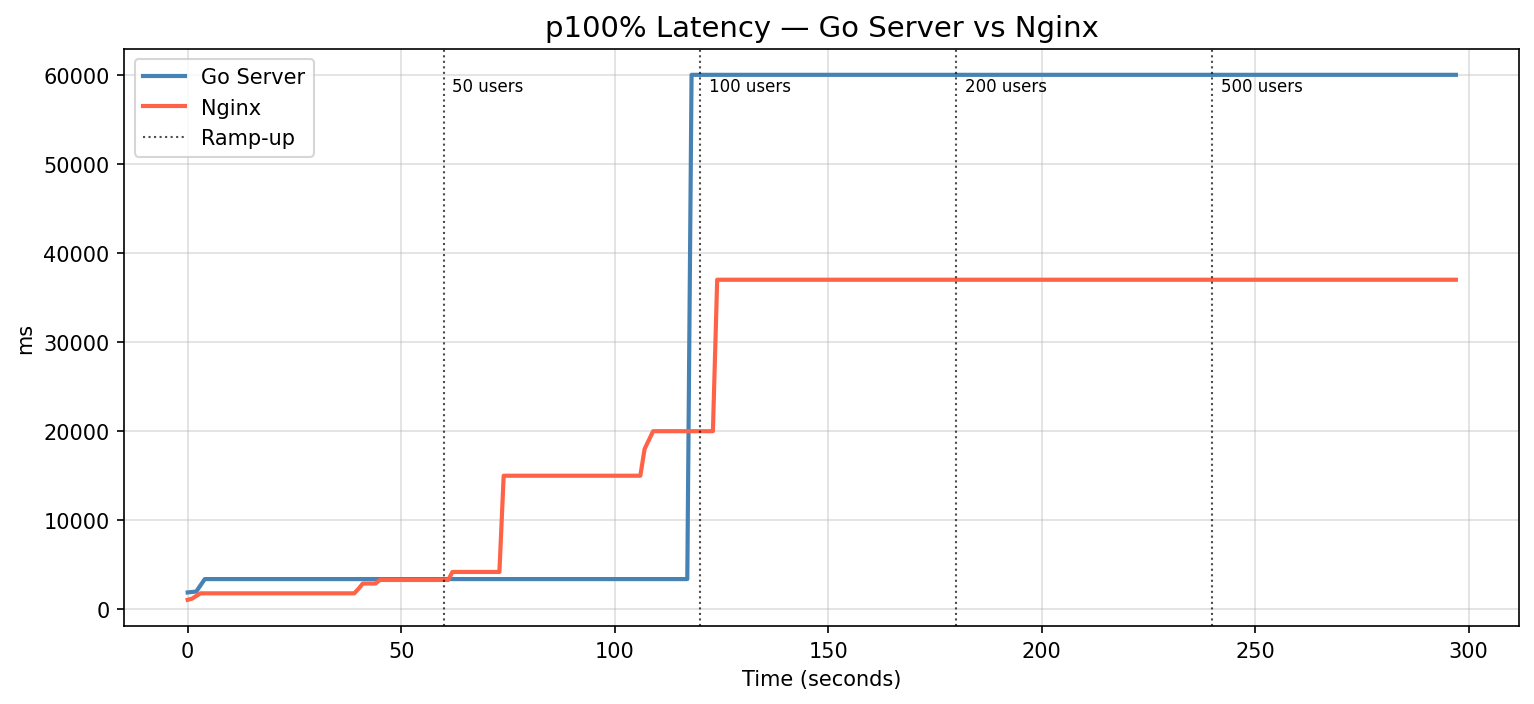
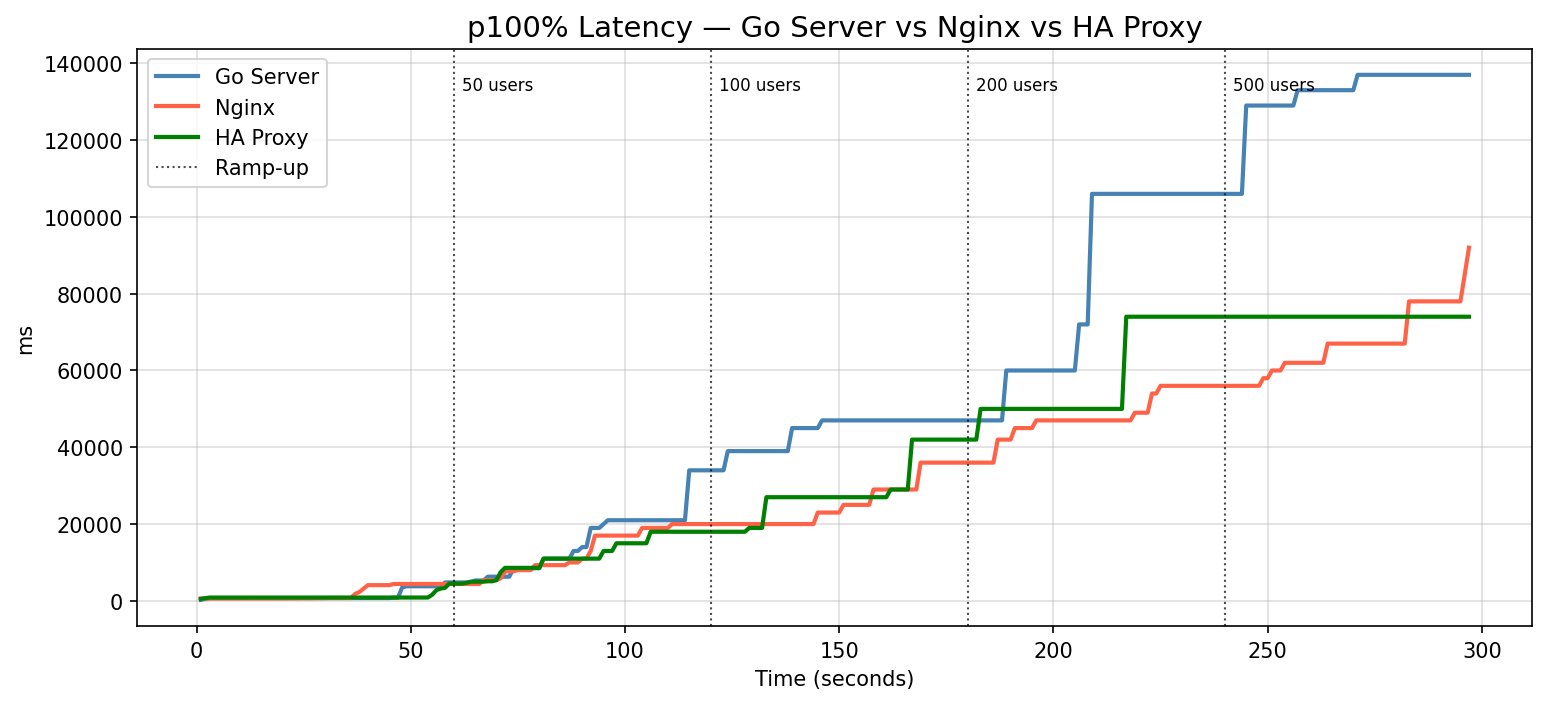
ran more tests

diff --git a/evaluation/locustfile.py b/evaluation/locustfile.py
@@ -1,8 +1,6 @@
 import random
 import string
-import time
 from locust import FastHttpUser, LoadTestShape, task
-from locust.exception import StopUser
 
 # --- GLOBAL SHARED STATE ---
 shared_post_ids = []
@@ -24,33 +22,31 @@ class StaircaseShape(LoadTestShape):
 
     def tick(self):
         run_time = self.get_run_time()
-        for stage in self.stages:
+
+        for i, stage in enumerate(self.stages):
             if run_time < stage["duration"]:
-                return stage["users"], stage["spawn_rate"]
-        return None  # Returning None stops the test
+                start_time = self.stages[i - 1]["duration"] if i > 0 else 0
+                start_users = self.stages[i - 1]["users"] if i > 0 else 0
+
+                stage_duration = stage["duration"] - start_time
+                midpoint = start_time + stage_duration / 2
+
+                if run_time < midpoint:
+                    # Ramp up to full users by the midpoint
+                    progress = (run_time - start_time) / (stage_duration / 2)
+                    current_users = round(
+                        start_users + (stage["users"] - start_users) * progress
+                    )
+                else:
+                    # Hold flat for the second half
+                    current_users = stage["users"]
+
+                return current_users, stage["spawn_rate"]
+
+        return None
 
 
 class RedditGatewayTester(FastHttpUser):
-    def post_with_retry(self, url, data, max_retries=5, backoff=2.0):
-        for attempt in range(max_retries):
-            with self.client.post(
-                url, data=data, catch_response=True, allow_redirects=False
-            ) as resp:
-                if resp.status_code in (200, 201, 301, 302):
-                    resp.success()
-                    return resp
-                elif resp.status_code in (500, 502, 503):
-                    wait = backoff**attempt  # 1s, 2s, 4s, 8s, 16s
-                    resp.failure(
-                        f"{url} returned {resp.status_code}, retrying in {wait:.1f}s"
-                    )
-                    time.sleep(wait)
-                else:
-                    resp.failure(f"{url} unexpected {resp.status_code}")
-                    return resp  # don't retry 4xx
-        # Return a dummy-like indicator after exhausting retries
-        raise StopUser()
-
     def on_start(self):
         self.action_count = 0
         self.authenticated = False
@@ -58,16 +54,16 @@ class RedditGatewayTester(FastHttpUser):
         self.password = "password123"
         self.subreddit_name = f"sub_{random_string()}"
 
-        self.post_with_retry(
+        self.client.post(
             "/auth/register", {"username": self.username, "password": self.password}
         )
-        self.post_with_retry(
+        self.client.post(
             "/auth/login", {"username": self.username, "password": self.password}
         )
 
         self.authenticated = True
 
-        self.post_with_retry(
+        self.client.post(
             "/subreddit/create",
             {"name": self.subreddit_name, "description": "Load testing subreddit"},
         )
